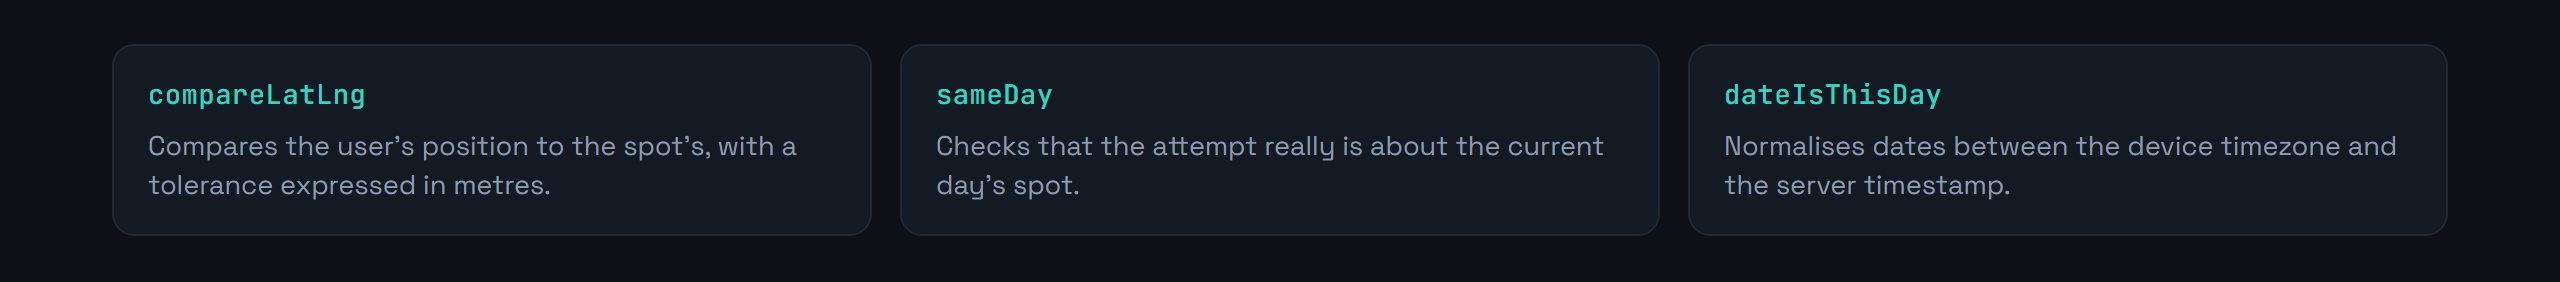
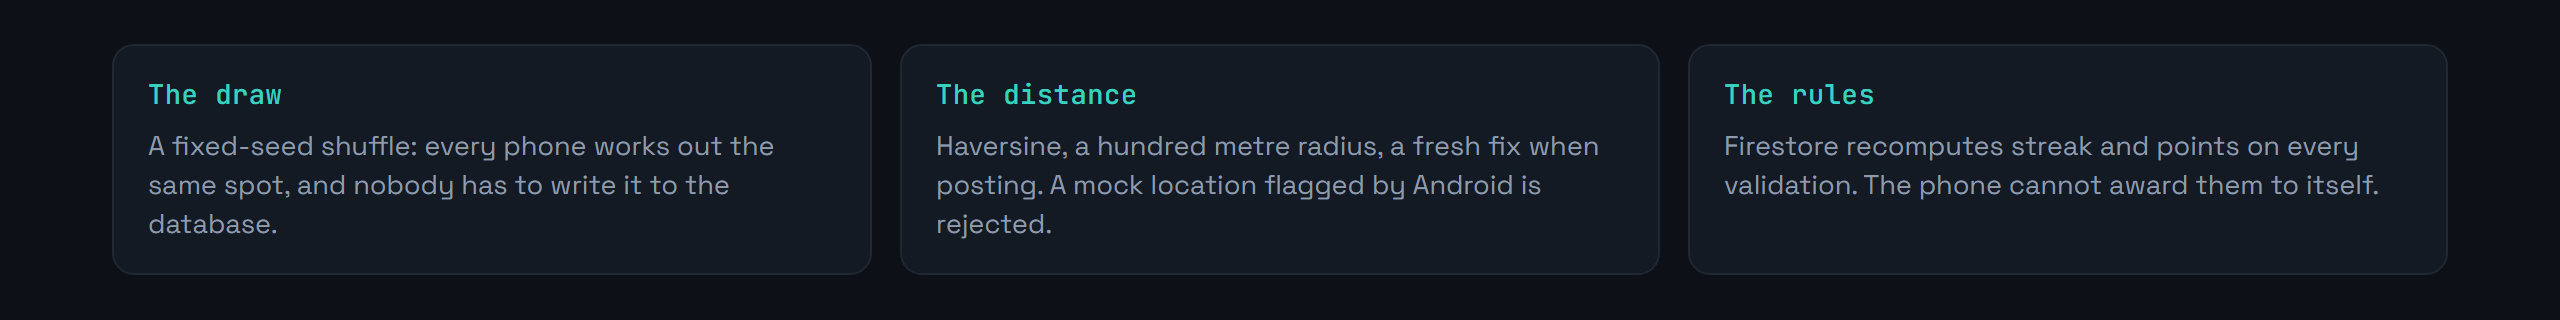
docs: README refait pour la nouvelle application
Nouvelles captures, grilles réécrites, installation avec Firebase et
mode démo, bouton de téléchargement vers les Releases.

diff --git a/README.md b/README.md
@@ -7,85 +7,99 @@
 
 <img src="docs/banniere.png" alt="BeVannes, BeReal rencontre GeoGuessr" width="100%">
 
+<a href="https://github.com/Cybertrist/BeVannes/releases/latest/download/BeVannes.apk"><img src="docs/telecharger.png" alt="Télécharger BeVannes, application Android, dernière version, mode démo" width="420"></a>
+
 </div>
 
 **BeReal rencontre GeoGuessr : un lieu par jour, il faut y aller pour marquer.**
 
-Chaque jour, l'application tire un lieu au sort dans Vannes et ses environs. Pour marquer des points, il faut s'y rendre physiquement : la position GPS est comparée à celle du spot, et la photo n'est validée que si vous y êtes vraiment. Chaque lieu s'accompagne d'une note historique ou culturelle, ce qui transforme la partie en visite guidée sans le vouloir.
+Chaque jour, l'application désigne un lieu de Vannes, le même pour tout le monde. Pour marquer des points, il faut s'y rendre : la photo n'est acceptée qu'à moins de cent mètres du lieu, GPS à l'appui. Chaque lieu s'accompagne d'une courte note historique, ce qui transforme la partie en visite guidée sans le vouloir.
 
 L'idée de départ : on passe devant les mêmes rues tous les jours sans jamais s'arrêter. Une contrainte ludique suffit parfois à changer ça.
 
 <img src="docs/sections/s01.png" alt="01 Fonctionnement" width="100%">
 
-<img src="docs/schemas/fonctionnement.png" alt="Le spot du jour : un lieu tiré au sort dans Vannes et ses environs, le même pour tout le monde, renouvelé chaque jour. La validation géolocalisée : la photo ne compte que si le GPS confirme la présence sur place, c'est toute la règle du jeu. Le classement : points cumulés, médailles et insignes pour ceux qui sortent vraiment tous les jours. Les notifications : envoyées à une heure aléatoire, comme BeReal, pas le temps de préparer sa photo." width="100%">
+<img src="docs/schemas/fonctionnement.png" alt="Le lieu du jour : un lieu de Vannes tiré au sort, le même pour tout le monde, renouvelé à minuit, chacun revient une fois par cycle. La validation sur place : la photo ne compte qu'à moins de cent mètres du lieu, GPS à l'appui, c'est toute la règle du jeu. Le classement : dix points par lieu, un bonus pour chaque jour de série, les photos des autres se dévoilent une fois la sienne publiée. Le rappel : une heure différente chaque jour, la même pour tous, comme BeReal, calculée sur le téléphone, sans serveur." width="100%">
 
-<div align="center">
-
-<img src="docs/captures/spot.png" alt="L'écran du spot du jour : la photo du lieu, sa position sur la carte, et le bouton de prise de vue qui devient une validation une fois sur place" width="70%">
-
-<img src="docs/captures/partage.png" alt="L'écran de partage de la photo prise sur place" width="70%">
-
-<img src="docs/captures/classement.png" alt="Le classement des joueurs" width="70%">
-
-</div>
+<p align="center">
+  <img src="docs/captures/jour.png" alt="Le lieu du jour : la carte avec la zone de validation de cent mètres, le nom du lieu, sa note historique et la distance qui reste à parcourir" width="24%">
+  <img src="docs/captures/bravo.png" alt="Après la publication : seize points gagnés et une série de quatre jours" width="24%">
+  <img src="docs/captures/classement.png" alt="Le classement : la place du joueur, le podium, puis tous les joueurs avec leur série en cours" width="24%">
+  <img src="docs/captures/profil.png" alt="Le profil : points, lieux validés, série en cours, meilleure série et part de Vannes découverte" width="24%">
+</p>
 
 <img src="docs/sections/s02.png" alt="02 Sous le capot" width="100%">
 
-Développé avec Flutter, prototypé sur FlutterFlow, adossé à Firebase pour l'authentification, la base temps réel et les tâches planifiées.
+Une application Flutter pour Android, avec Firebase derrière : Authentication pour les comptes, Firestore pour les joueurs et les validations, Storage pour les photos. La carte vient d'OpenStreetMap, sans clé d'API.
 
-Trois fonctions maison portent la logique de jeu.
+Trois pièces tiennent le jeu.
 
-<img src="docs/schemas/fonctions.png" alt="compareLatLng compare la position de l'utilisateur à celle du spot, avec une tolérance exprimée en mètres. sameDay vérifie que la tentative concerne bien le spot du jour en cours. dateIsThisDay normalise les dates entre le fuseau de l'appareil et l'horodatage du serveur." width="100%">
+<img src="docs/schemas/fonctions.png" alt="Le tirage : un mélange à graine fixe, chaque téléphone calcule le même lieu sans que personne ne l'écrive dans la base. La distance : haversine, rayon de cent mètres, mesure fraîche au moment de publier, une position fictive signalée par Android est refusée. Les règles : Firestore recalcule série et points à chaque validation, le téléphone ne peut pas se les attribuer." width="100%">
 
-C'est là que tout se joue. Une tolérance trop large et on valide depuis son canapé, trop étroite et le bruit GPS en ville rend le jeu injouable.
+Le code est rangé en couches : `lib/domain` pour les règles du jeu, sans Flutter ni Firebase, et testé ; `lib/data` pour le stockage, avec une version Firebase et une version de démonstration en mémoire ; `lib/ui` pour les écrans. Les photos sont recadrées en 3:4 sur le téléphone avant l'envoi, pour que tout le monde voie le même cadre.
 
 <img src="docs/sections/s03.png" alt="03 Installation" width="100%">
+
+**Pour essayer**, le bouton en haut de page installe la version de démonstration : une petite communauté fictive, tout reste sur le téléphone, et un interrupteur place le joueur sur le lieu du jour pour tester la validation sans traverser la ville.
+
+**Pour construire**, il faut Flutter.
 
 ```bash
 git clone https://github.com/Cybertrist/BeVannes.git
 cd BeVannes
 flutter pub get
+flutter run --dart-define=DEMO=true
 ```
 
-**Firebase.** Le projet a besoin de votre propre projet Firebase : les fichiers de configuration ne sont pas versionnés.
+**Pour jouer pour de vrai**, il faut un projet Firebase.
 
-1. Créez un projet sur la [console Firebase](https://console.firebase.google.com/).
-2. Activez **Authentication**, **Realtime Database** et **Storage**.
-3. Téléchargez `google-services.json` et placez-le dans `android/app/`.
-4. Pour iOS, `GoogleService-Info.plist` va dans `ios/Runner/`.
-
-> Les clés d'API Firebase côté client ne sont pas des secrets, elles sont lisibles dans tout APK. Ce qui protège réellement les données, ce sont les **règles de sécurité** Realtime Database et Storage. Configurez-les avant d'ouvrir l'application à qui que ce soit.
+1. Sur la [console Firebase](https://console.firebase.google.com/), activer **Authentication** (e-mail et mot de passe), **Firestore** et **Storage**, et déclarer une application Android `fr.bevannes.bevannes`.
+2. Télécharger son `google-services.json`, puis écrire la configuration de compilation, ignorée par git :
 
 ```bash
-flutter run
+bash tool/firebase_env.sh chemin/vers/google-services.json
 ```
+
+3. Déployer les règles et les index du dépôt :
+
+```bash
+firebase deploy --only firestore,storage
+```
+
+4. Construire :
+
+```bash
+flutter build apk --release --dart-define-from-file=firebase.env.json
+```
+
+> Les clés d'API Firebase côté client ne sont pas des secrets, elles se lisent dans tout APK. Ce qui protège les données, ce sont les **règles** de `firestore.rules` et `storage.rules` : un joueur n'écrit que ses propres points, recalculés par le serveur, et ne voit les photos d'un jour qu'après avoir validé ce jour-là.
 
 <img src="docs/sections/s04.png" alt="04 Ajouter des lieux" width="100%">
 
-Les spots sont décrits dans `data/spots.json`.
+Les lieux vivent dans `assets/lieux.json`, embarqués dans l'application.
 
 ```json
 {
-  "spots": [
-    {
-      "name": "Les remparts",
-      "latitude": 47.6553,
-      "longitude": -2.7601,
-      "description": "Fortifications médiévales, parmi les mieux conservées de Bretagne."
-    }
-  ]
+  "id": "lavoirs-garenne",
+  "nom": "Lavoirs de la Garenne",
+  "quartier": "Les remparts",
+  "latitude": 47.6555828,
+  "longitude": -2.7554577,
+  "note": "Sous leurs toits d'ardoise, au bord de la Marle, les lavandières rinçaient le linge jusqu'au milieu du XXe siècle."
 }
 ```
 
-La `description` n'est pas décorative : c'est elle qui fait la différence entre une chasse au trésor et une visite. Elle mérite qu'on la soigne.
+Les coordonnées se prennent sur OpenStreetMap, pas à l'œil : à cent mètres près, un lieu mal placé devient impossible à valider. La `note` n'est pas décorative non plus, c'est elle qui fait la différence entre une chasse au trésor et une visite.
+
+L'ordre du fichier entre dans le tirage : ajouter un lieu rebat le cycle en cours. Tous les joueurs doivent donc avoir la même version de l'application pour voir le même lieu.
 
 <img src="docs/sections/s05.png" alt="05 Limites" width="100%">
 
-Le périmètre couvert est Vannes et ses alentours. Ailleurs, il n'y a rien à découvrir.
+Le terrain de jeu est Vannes. Ailleurs, il n'y a rien à découvrir.
 
-La validation repose sur le GPS de l'appareil, qui reste falsifiable par une application de position fictive. Une vérification sérieuse demanderait un recoupement côté serveur, sur l'heure de la prise de vue et la cohérence des déplacements.
+La position reste celle que le téléphone annonce. Android signale les applications de position fictive, et le jeu les refuse, mais un téléphone modifié peut mentir sans le dire. Les règles Firestore garantissent la cohérence des points, pas la présence sur place.
 
-Le projet est né d'un prototype FlutterFlow, et une partie du code généré n'a pas été reprise à la main.
+Les photos ne sont pas modérées, et les tuiles d'OpenStreetMap ne sont pas faites pour un gros trafic : au-delà d'un cercle d'amis, il faudrait un serveur de tuiles à soi.
 
 Écrit en Flutter et Dart, avec Firebase. Licence MIT.
 

diff --git a/README.en.md b/README.en.md
@@ -7,87 +7,101 @@
 
 <img src="docs/en/banniere.png" alt="BeVannes, BeReal meets GeoGuessr" width="100%">
 
+<a href="https://github.com/Cybertrist/BeVannes/releases/latest/download/BeVannes.apk"><img src="docs/en/telecharger.png" alt="Download BeVannes, Android app, latest version, demo mode" width="420"></a>
+
 </div>
 
 **BeReal meets GeoGuessr: one place a day, and you have to go there to score.**
 
-Every day, the app draws a place at random in and around Vannes. To score, you have to physically go there: your GPS position is compared with the spot's, and the photo is only accepted if you really are on site. Each place comes with a historical or cultural note, which quietly turns the game into a guided tour.
+Every day, the app picks a place in Vannes, the same one for everyone. To score, you have to go there: the photo is only accepted within a hundred metres of the spot, GPS as proof. Each place comes with a short historical note, which quietly turns the game into a guided tour.
 
 The starting idea: we walk past the same streets every day without ever stopping. A playful constraint is sometimes enough to change that.
 
 <img src="docs/en/sections/s01.png" alt="01 How it works" width="100%">
 
-<img src="docs/en/schemas/fonctionnement.png" alt="Today's spot: a place drawn at random in and around Vannes, the same for everyone, renewed every day. Location-checked validation: the photo only counts if GPS confirms you are there, that is the whole rule of the game. The leaderboard: cumulative points, medals and badges for those who really do go out every day. The notifications: sent at a random time, like BeReal, no time to set up your shot." width="100%">
+<img src="docs/en/schemas/fonctionnement.png" alt="Today's spot: a place in Vannes drawn at random, the same for everyone, renewed at midnight, each one comes up once per cycle. Proof of presence: the photo only counts within a hundred metres of the spot, GPS as proof, that is the whole rule of the game. The leaderboard: ten points per spot, a bonus for every day in a row, other players' photos show up once yours is posted. The reminder: a different time every day, the same for everyone, like BeReal, worked out on the phone, no server involved." width="100%">
 
-<div align="center">
-
-<img src="docs/captures/spot.png" alt="The spot of the day screen, in French: the photo of the place, its position on the map, and the shutter button that turns into a validation once you are on site" width="70%">
-
-<img src="docs/captures/partage.png" alt="The sharing screen for the photo taken on site, in French" width="70%">
-
-<img src="docs/captures/classement.png" alt="The player leaderboard, in French" width="70%">
-
-</div>
+<p align="center">
+  <img src="docs/captures/jour.png" alt="Today's spot, in French: the map with the hundred metre validation zone, the place name, its historical note and the distance still to go" width="24%">
+  <img src="docs/captures/bravo.png" alt="After posting, in French: sixteen points earned and a four day streak" width="24%">
+  <img src="docs/captures/classement.png" alt="The leaderboard, in French: the player's rank, the podium, then every player with their current streak" width="24%">
+  <img src="docs/captures/profil.png" alt="The profile, in French: points, places validated, current streak, best streak and how much of Vannes has been found" width="24%">
+</p>
 
 > The screenshots show the app in French, the only language it ships in.
 
 <img src="docs/en/sections/s02.png" alt="02 Under the hood" width="100%">
 
-Built with Flutter, prototyped on FlutterFlow, backed by Firebase for authentication, the realtime database and the scheduled jobs.
+A Flutter app for Android, with Firebase behind it: Authentication for accounts, Firestore for players and validations, Storage for photos. The map comes from OpenStreetMap, no API key needed.
 
-Three home-made functions carry the game logic.
+Three pieces hold the game together.
 
-<img src="docs/en/schemas/fonctions.png" alt="compareLatLng compares the user's position to the spot's, with a tolerance expressed in metres. sameDay checks that the attempt really is about the current day's spot. dateIsThisDay normalises dates between the device timezone and the server timestamp." width="100%">
+<img src="docs/en/schemas/fonctions.png" alt="The draw: a fixed-seed shuffle, every phone works out the same spot and nobody has to write it to the database. The distance: haversine, a hundred metre radius, a fresh fix when posting, a mock location flagged by Android is rejected. The rules: Firestore recomputes streak and points on every validation, the phone cannot award them to itself." width="100%">
 
-That is where it all plays out. Too wide a tolerance and you validate from your sofa; too narrow and GPS noise in town makes the game unplayable.
+The code is layered: `lib/domain` holds the game rules, free of Flutter and Firebase, and tested; `lib/data` holds storage, with a Firebase version and an in-memory demo version; `lib/ui` holds the screens. Photos are cropped to 3:4 on the phone before upload, so everyone sees the same frame.
 
 <img src="docs/en/sections/s03.png" alt="03 Installation" width="100%">
+
+**To try it**, the button at the top installs the demo build: a small made-up community, everything stays on the phone, and a switch puts the player on today's spot to test validation without crossing town.
+
+**To build it**, you need Flutter.
 
 ```bash
 git clone https://github.com/Cybertrist/BeVannes.git
 cd BeVannes
 flutter pub get
+flutter run --dart-define=DEMO=true
 ```
 
-**Firebase.** The project needs your own Firebase project: the configuration files are not in git.
+**To play for real**, you need a Firebase project.
 
-1. Create a project on the [Firebase console](https://console.firebase.google.com/).
-2. Enable **Authentication**, **Realtime Database** and **Storage**.
-3. Download `google-services.json` and drop it in `android/app/`.
-4. For iOS, `GoogleService-Info.plist` goes in `ios/Runner/`.
-
-> Client-side Firebase API keys are not secrets, they are readable in any APK. What actually protects the data are the Realtime Database and Storage **security rules**. Set them up before opening the app to anyone.
+1. On the [Firebase console](https://console.firebase.google.com/), enable **Authentication** (email and password), **Firestore** and **Storage**, and register an Android app `fr.bevannes.bevannes`.
+2. Download its `google-services.json`, then write the build configuration, which git ignores:
 
 ```bash
-flutter run
+bash tool/firebase_env.sh path/to/google-services.json
 ```
+
+3. Deploy the rules and indexes from the repository:
+
+```bash
+firebase deploy --only firestore,storage
+```
+
+4. Build:
+
+```bash
+flutter build apk --release --dart-define-from-file=firebase.env.json
+```
+
+> Client-side Firebase API keys are not secrets, they can be read from any APK. What protects the data are the **rules** in `firestore.rules` and `storage.rules`: a player only writes their own points, recomputed by the server, and only sees a day's photos after validating that day themselves.
 
 <img src="docs/en/sections/s04.png" alt="04 Adding places" width="100%">
 
-The spots are described in `data/spots.json`.
+Places live in `assets/lieux.json`, bundled with the app.
 
 ```json
 {
-  "spots": [
-    {
-      "name": "Les remparts",
-      "latitude": 47.6553,
-      "longitude": -2.7601,
-      "description": "Fortifications médiévales, parmi les mieux conservées de Bretagne."
-    }
-  ]
+  "id": "lavoirs-garenne",
+  "nom": "Lavoirs de la Garenne",
+  "quartier": "Les remparts",
+  "latitude": 47.6555828,
+  "longitude": -2.7554577,
+  "note": "Sous leurs toits d'ardoise, au bord de la Marle, les lavandières rinçaient le linge jusqu'au milieu du XXe siècle."
 }
 ```
 
-The `description` is not decoration: it is what separates a treasure hunt from a visit. It deserves some care.
+Take the coordinates from OpenStreetMap, not by eye: with a hundred metre radius, a misplaced spot becomes impossible to validate. The `note` is not decoration either, it is what separates a treasure hunt from a visit.
+
+The order of the file feeds the draw: adding a place reshuffles the current cycle. Every player therefore needs the same app version to see the same spot.
 
 <img src="docs/en/sections/s05.png" alt="05 Limits" width="100%">
 
-The area covered is Vannes and its surroundings. Anywhere else, there is nothing to discover.
+The playing field is Vannes. Anywhere else, there is nothing to discover.
 
-Validation rests on the device GPS, which a mock-location app can still fake. A serious check would need server-side cross-referencing, on the time of the shot and the plausibility of the movement.
+The position is whatever the phone reports. Android flags mock-location apps, and the game rejects them, but a modified phone can lie without saying so. The Firestore rules guarantee that points add up, not that the player was there.
 
-The project grew out of a FlutterFlow prototype, and part of the generated code was never rewritten by hand.
+Photos are not moderated, and OpenStreetMap's tiles are not meant for heavy traffic: beyond a circle of friends, it would take a tile server of your own.
 
 Written in Flutter and Dart, with Firebase. MIT licence.
 

diff --git a/docs/tools/README.md b/docs/tools/README.md
@@ -38,6 +38,7 @@ ce qui rend impossible d'en corriger une en oubliant l'autre.
 - `pastilles.sh` : les deux pastilles du sélecteur de langue.
 - `langue.sh` : la bascule `LANGUE` et la fonction `t`.
 - `installer.sh` : repose les images rendues dans `docs/` ou `docs/en/`.
+- `telecharger.sh` : le bouton de téléchargement, lien vers le dernier APK des Releases.
 - `tout.sh` : enchaîne tout ce qui précède, dans les deux langues.
 
 ## Ce dont ils dépendent
